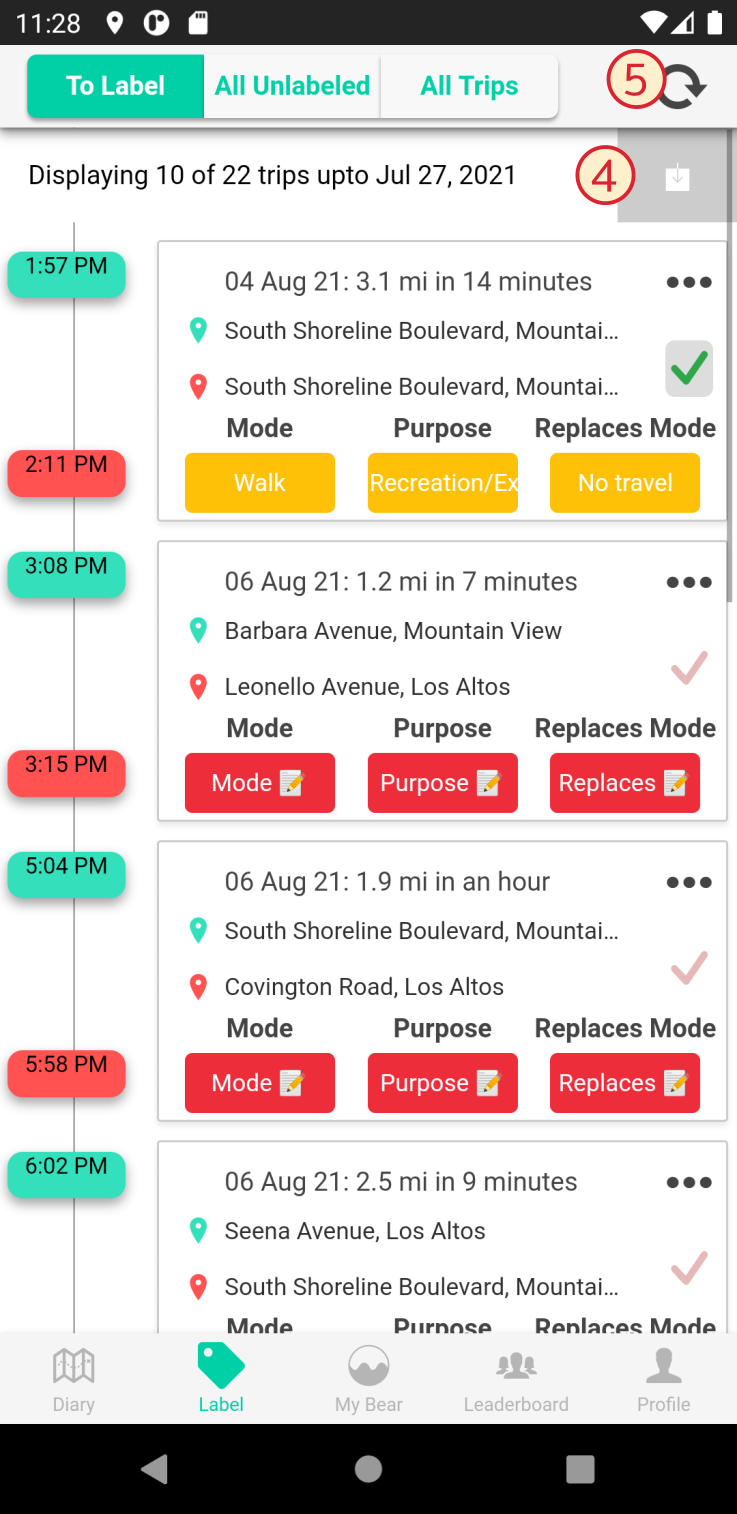
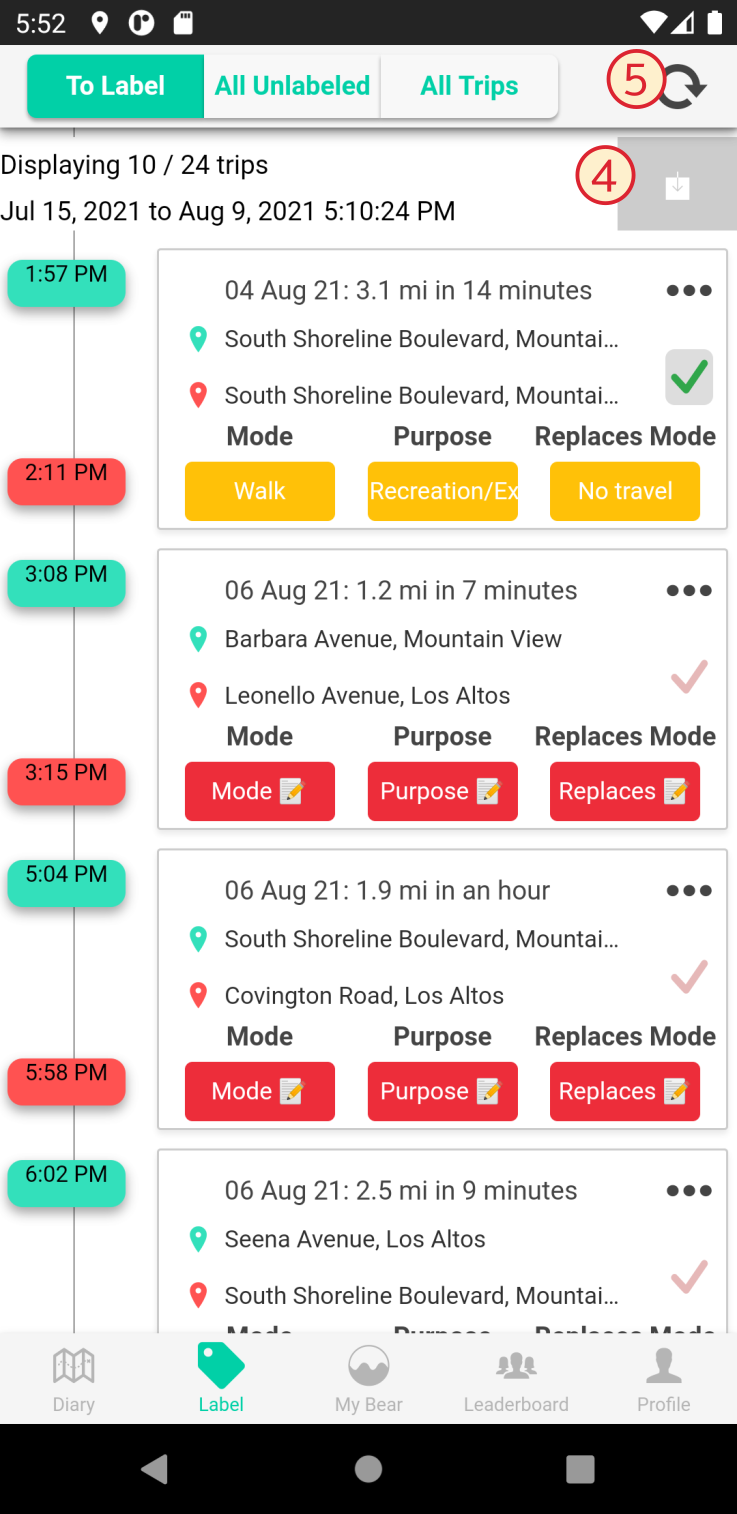
More small documentation edits
+ Clarify some wording
 + Update a screenshot

diff --git a/webapp/www/faq/hybrid_labeling.html b/webapp/www/faq/hybrid_labeling.html
@@ -99,7 +99,7 @@
                         <strong>How should I use the new interface?</strong>
                     </h3>
                     <h4>
-                        Instead of using the Diary screen <span class="fig_ref">2</span> to label trips, use the Label screen <span class="fig_ref">1</span>. Trips take a little longer to appear here — about an hour if you are connected to the Internet — but once they do they will be more accurate. Within the Label screen, there are a few tabs, including one called &ldquo;To Label&rdquo; <span class="fig_ref">3</span>. On this screen, only the trips that you need to label will appear; trips will automatically disappear when you label them. Once no more trips appear in To Label, you are done labeling for the day. See below for how to use some more time-saving features we've added.
+                        Instead of using the Diary screen <span class="fig_ref">2</span> to label trips, use the Label screen <span class="fig_ref">1</span>. Trips take a little longer to appear here — about an hour if you are connected to the Internet — but once they do they will be more accurate. Within the Label screen, there are a few tabs, including one called &ldquo;To Label&rdquo; <span class="fig_ref">3</span>. On this screen, only the trips that you need to label will appear; trips will automatically disappear when you label them. To Label is the only tab you need to consult, and once no more trips appear there, you are done labeling for the day. See below for how to use some more time-saving features we've added.
                     </h4>
                     <p></p>
                     <h3>
@@ -113,7 +113,7 @@
                         <strong>Why are some of my trips not appearing?</strong>
                     </h3>
                     <h4>
-                        The &ldquo;To Label&rdquo; tab only shows trips that you need to label. For some of your trips, an algorithm was able to predict what the labels were so accurately that you don't need to tell us anything about those trips. If you want to see all of your unlabeled trips or all of your trips anyway, you can use the &ldquo;All Unlabeled&rdquo; and &ldquo;All Trips&rdquo; tabs <span class="fig_ref">6</span> (to see the trip you're looking for, you may have to load older trips <span class="fig_ref">4</span>).
+                        The &ldquo;To Label&rdquo; tab only shows trips that you need to label. For some of your trips, an algorithm was able to predict what the labels were so accurately that you don't need to tell us anything about those trips. If you want to see all of your unlabeled trips or all of your trips anyway, you can use the &ldquo;All Unlabeled&rdquo; and &ldquo;All Trips&rdquo; tabs <span class="fig_ref">6</span> (to see the trip you're looking for, you may have to load older trips <span class="fig_ref">4</span>). However, you only ever have to label the trips that appear in To Label.
                     </h4>
                     <p></p>
                     <h3>
